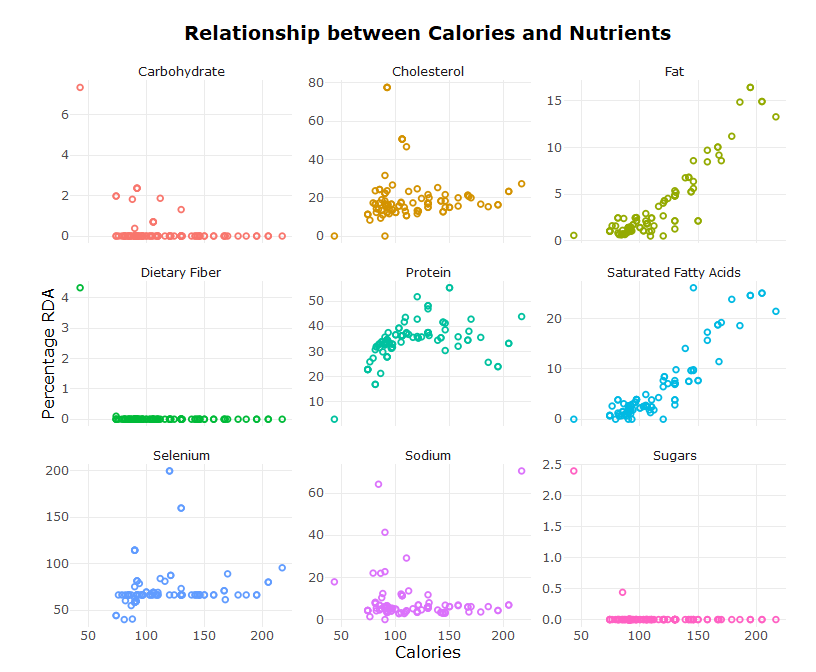
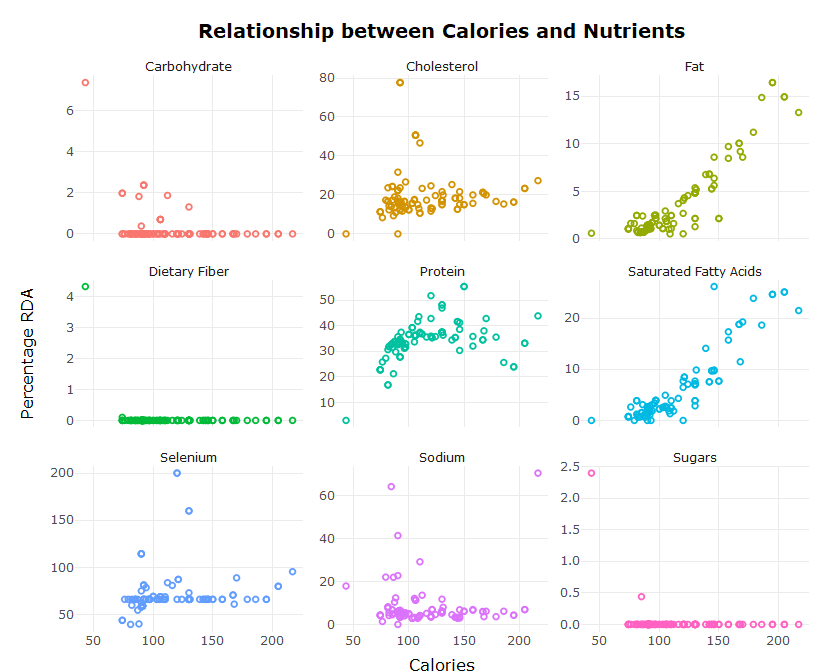
Add datasets

diff --git a/Fisheries/Fisheries.md b/Fisheries/Fisheries.md
@@ -445,15 +445,19 @@ fig6<-fish_longer%>%ggplot(aes(x=calories, y=percent, color=nutrient, group=spec
 
 #Plotly tends to mess up axis titles from ggplots. One might have to tweak around the margins to get the perfect layout
 fig6<- ggplotly(fig6, tooltip = c("species"))%>%
-  layout(margin = list(l = 70, r = 30, b = 20, t = 80),
-           yaxis = list(title = paste0(c(rep("&nbsp;", 10),
-                                         "",
-                                         rep("&nbsp;", 30),
-                                         rep("\n&nbsp;", 3)),
-                                       collapse = "")))%>%
   hide_legend()
 
-fig6
+
+#This helps find out how plotly has listed the annotations
+#str(fig6[['x']][['layout']][['annotations']]) 
+
+#Locates the x position of the yaxis titles
+#fig6[['x']][['layout']][['annotations']][[2]][['x']]
+
+#move the y-axis title more left and x-axis title lower
+fig6[['x']][['layout']][['annotations']][[2]][['x']] <- -0.05
+fig6[['x']][['layout']][['annotations']][[1]][['y']] <- -0.04
+fig6 %>% layout(margin = list(l = 75, t=75))
 ```
 
 <img src="Fisheries_files/figure-gfm/fig6-1.png" style="display: block; margin: auto;" />
@@ -537,3 +541,81 @@ calories relate to your diet of choice. Also to debunk any misguided
 information one might have had prior.
 
 <br></br>
+
+## Comparative analysis
+
+To be able to compare against other food sources, we have to bring in
+data from other online sources.
+
+### Vegetables
+
+Accessing [vegetable food nutrition
+data](https://data.world/adamhelsinger/food-nutrition-information/workspace/file?filename=NutritionalFacts_Fruit_Vegetables_Seafood.csv)
+data from data.world. You can download the whole CSV file and clean it
+on R, but i prefer querying (SQL) the data i need on data.world and only
+downloading parts that i need.
+
+``` sql
+--SQL Code to only get top 4 vegetables by calories
+SELECT * 
+FROM nutritionalfacts_fruit_vegetables_seafood
+WHERE food_type LIKE "%vegetables%"
+ORDER BY calories DESC
+LIMIT 4;
+```
+
+### Fruits
+
+``` sql
+--SQL Code to only get top 4 vegetables by calories
+SELECT * 
+FROM nutritionalfacts_fruit_vegetables_seafood
+WHERE food_type LIKE "%fruits%"
+ORDER BY calories DESC
+LIMIT 4;
+```
+
+For Animal nutrition information, i collected information from the [USDA
+National Nutrient
+Database](https://data.world/craigkelly/usda-national-nutrient-db).
+
+### Beef
+
+``` sql
+--SQL Code to only get top 4 beef by calories
+SELECT * 
+FROM nndb_flat 
+WHERE foodgroup LIKE "%beef%" AND shortdescrip LIKE "%meat%"
+ORDER BY energy_kcal DESC
+LIMIT 4;
+```
+
+### Pork
+
+``` sql
+--SQL Code to only get top 4 pork products by calories
+SELECT * 
+FROM nndb_flat 
+WHERE foodgroup LIKE "%pork%" AND shortdescrip LIKE "%meat%"
+ORDER BY energy_kcal DESC
+LIMIT 4;
+```
+
+### Poultry
+
+``` sql
+--SQL Code to only get top 4 poultry products by calories
+SELECT * 
+FROM nndb_flat 
+WHERE foodgroup LIKE "%poultry%" AND shortdescrip LIKE "%meat%"
+ORDER BY energy_kcal DESC
+LIMIT 4;
+```
+
+Import the trimmed data and finish manipulating the values. Finally
+subset a dataset that will contain 4 different fruits, vegetables,
+seafood and data on beef, pork, and poultry.
+
+The goal is to have comparable values. I selected fruits and vegetables
+with the highest calories. This will be the same with the fish species
+selected.
